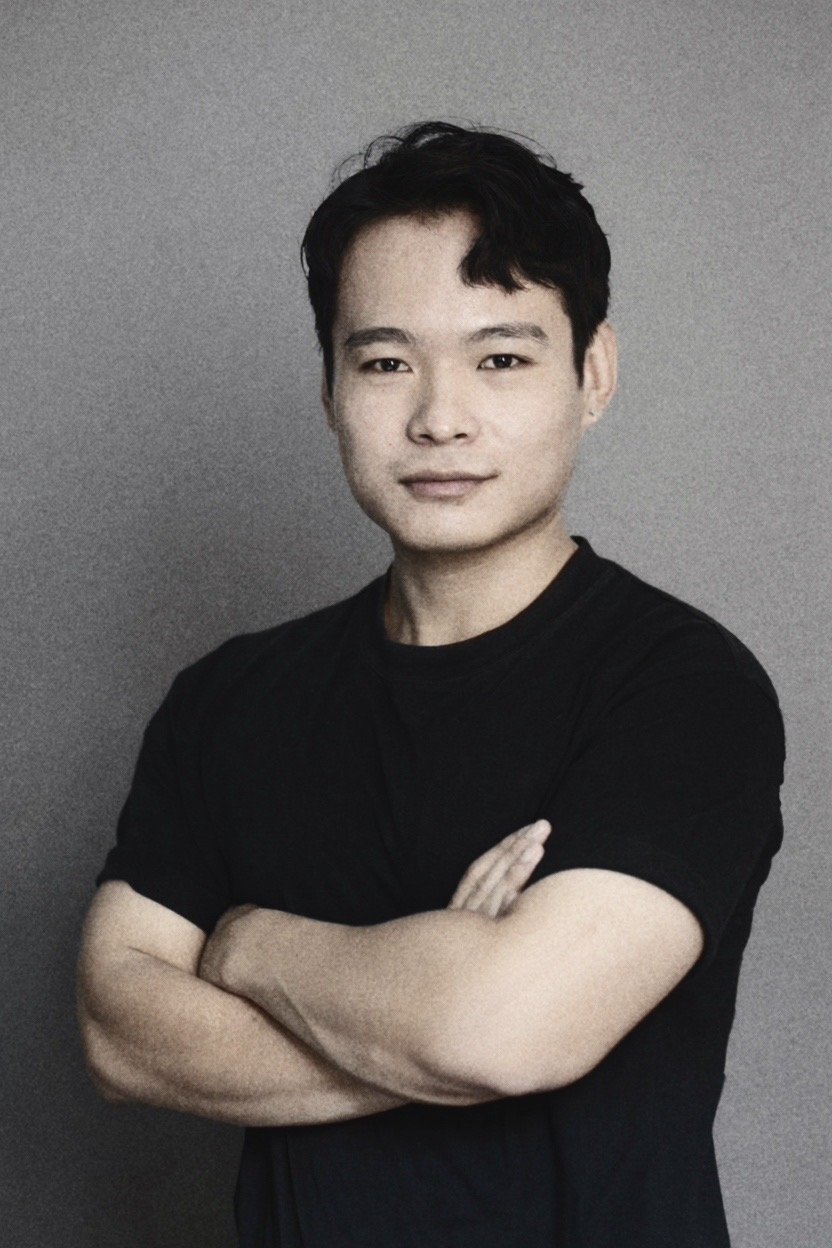
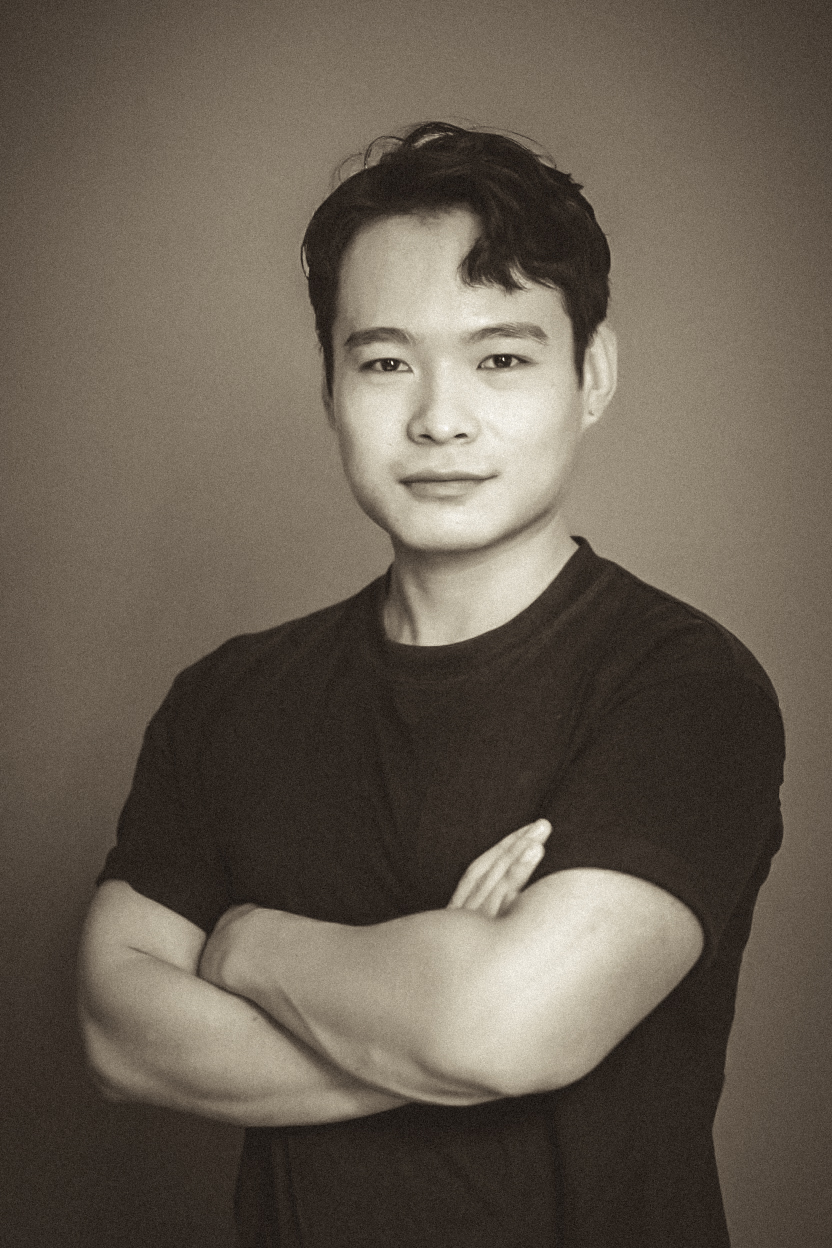
Update the team members

diff --git a/app/team/page.tsx b/app/team/page.tsx
@@ -58,7 +58,7 @@ const teamMembers = [
   },
   {
     name: "Dipendra Thapaliya",
-    image: "/team/team5.jpg",
+    image: "/team/team6.jpg",
     role: "Chief Gaffer",
     description:
       "With over 30 years of experience and the eldest member of the team, Deependra brings wisdom, discipline, and mastery to every set. His understanding of light and equipment goes beyond technique,it shapes mood, depth, and atmosphere creating magic on the screen. Mostly, the wise guy who lightens and enlightens the set",
@@ -66,7 +66,7 @@ const teamMembers = [
   },
   {
     name: "Sohail Shrestha",
-    image: "/team/team5.jpg",
+    image: "/team/sohail.png",
     role: "In- House Artist / Production Manager",
     description:
       "With a passion for performance since childhood, Sohail’s acting has the power to make you laugh and move you to tears. Beyond his work in front of the camera, he plays a key role in managing productions, ensuring every shoot runs smoothly and efficiently. Mostly, the all rounder who does it all",
